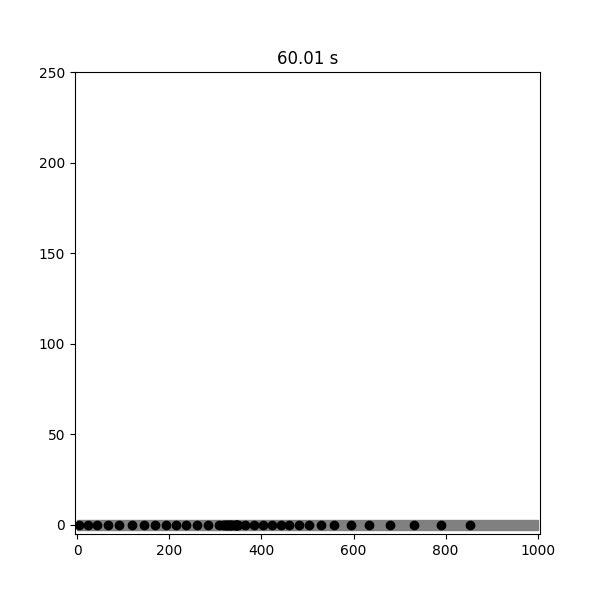
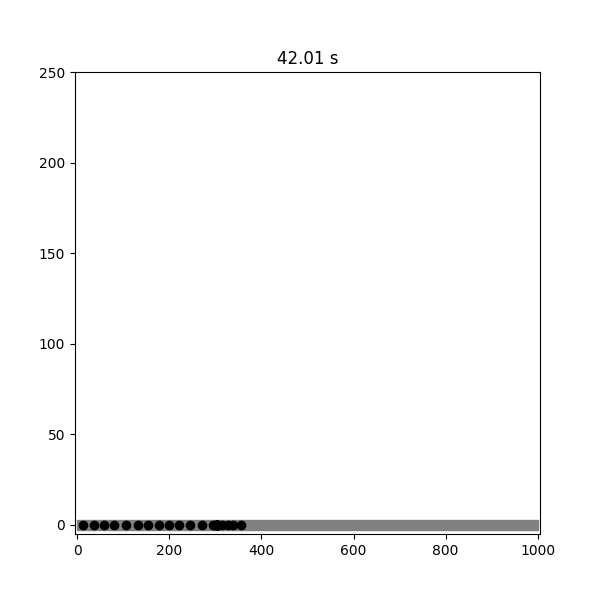
Add files via upload

diff --git a/Q4 - Microscopic Modelling/world.py b/Q4 - Microscopic Modelling/world.py
@@ -291,8 +291,12 @@ class World:
         plt.show(block=False)
         #plt.pause(0.001)
         plt.pause(0.01)
-        if round(100*self.time)/100.0 == 4.05:
-            plt.savefig("Kaaba")
+        if round(100*self.time)/100.0 == 10.05:
+            plt.savefig("Kaaba Situation 1 A")
+            #plt.savefig("Kaaba Situation 3 A")
+        if round(100*self.time)/100.0 == 20.05:
+            plt.savefig("Kaaba Situation 1 B")
+            #plt.savefig("Kaaba Situation 3 B")
 
     def update(self, dt=0.05):
         self.update_desired_directions(self.pedestrians, self.boundaries, self.polygons)

diff --git a/Q4 - Microscopic Modelling/Alternative_model.py b/Q4 - Microscopic Modelling/Alternative_model.py
@@ -101,7 +101,7 @@ class Simulation:
         if round(100*self.time)/100.0 == 35.01:
             print(str(round(100*self.time)/100.0))
             plt.savefig("Alternate Traffic Light Queue")
-        elif round(100*self.time)/100.0 == 60.01:
+        elif round(100*self.time)/100.0 == 42.01:
             print(str(round(100*self.time)/100.0))
             plt.savefig("Alternate Traffic Shockwave")
 
